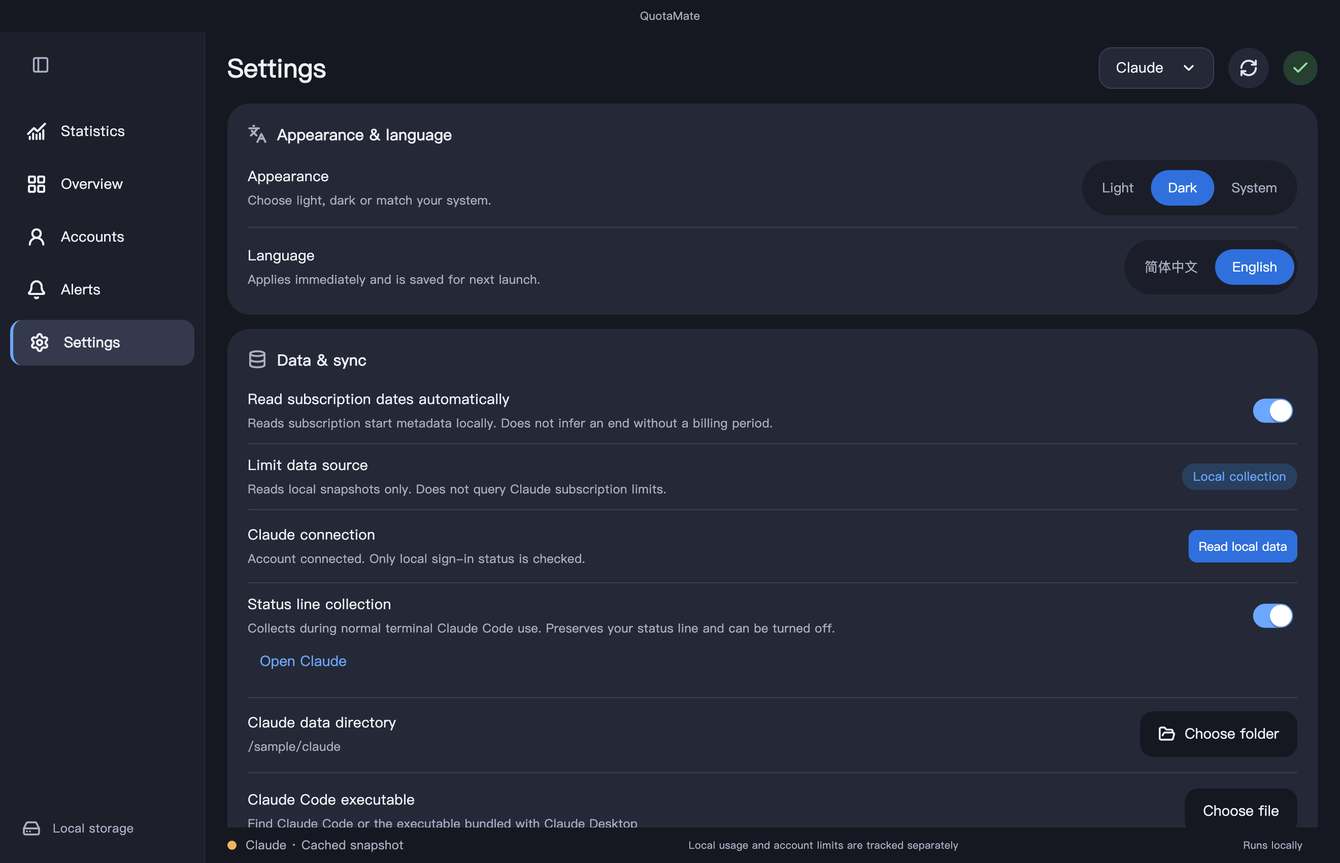
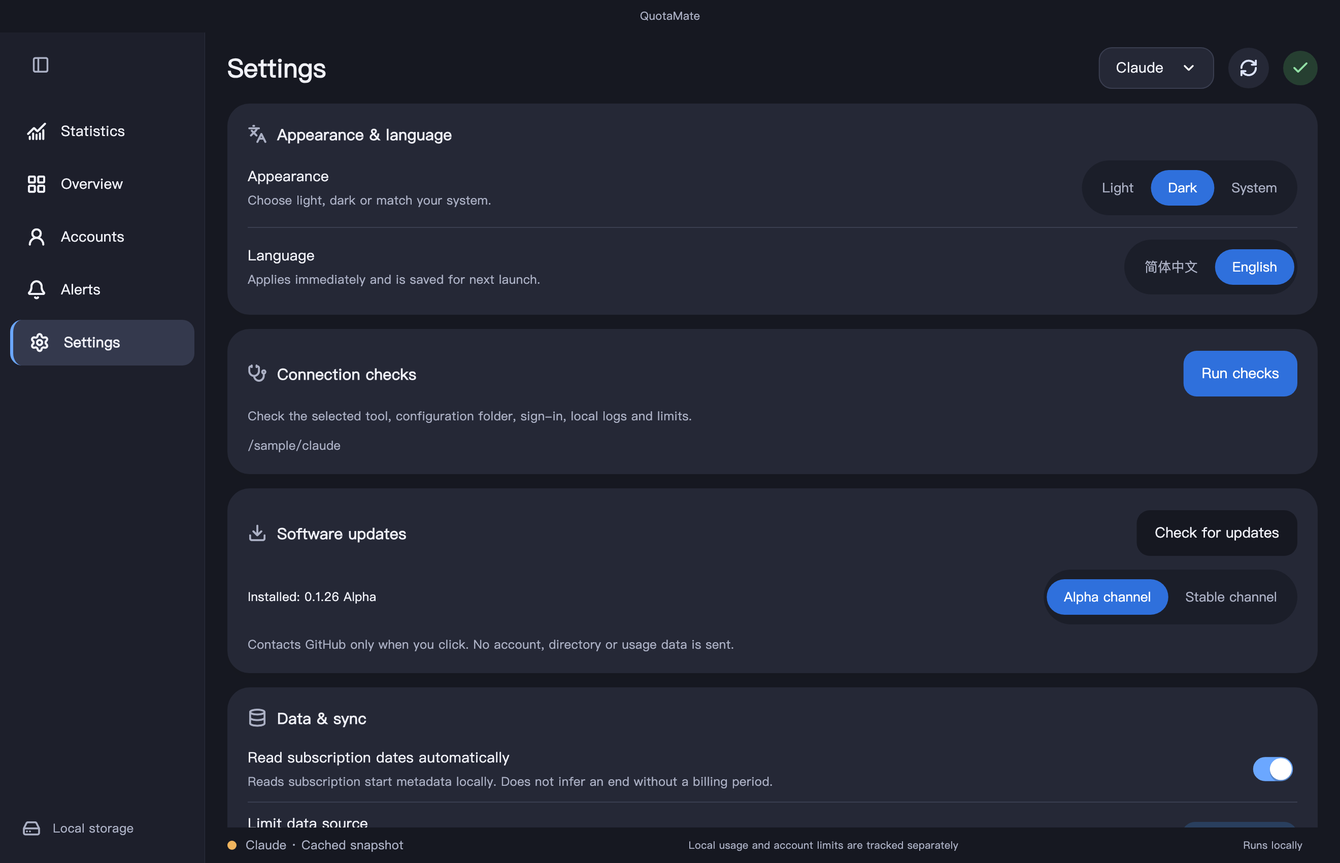
Fix Windows startup build and document the new maintenance features

diff --git a/lib/data/connection_diagnostics.dart b/lib/data/connection_diagnostics.dart
@@ -51,6 +51,7 @@ class ConnectionDiagnostics {
     SourceProfile profile, {
     String? configured,
     Future<String?> Function()? locate,
+    void Function(List<ConnectionCheck>)? onProgress,
     Future<AccountSnapshot> Function(String, String)? identity,
     Future<AccountSnapshot> Function(String, String)? quota,
     Future<ClaudeConnectionResult> Function(String, String)? claude,
@@ -62,7 +63,11 @@ class ConnectionDiagnostics {
       String detail,
       CheckState state, [
       CheckAction? action,
-    ]) => checks.add(ConnectionCheck(id, title, detail, state, action));
+    ]) {
+      checks.add(ConnectionCheck(id, title, detail, state, action));
+      onProgress?.call(List.unmodifiable(checks));
+    }
+
     final isClaude = profile.provider == AiProvider.claude;
     String? executable, email;
     try {

diff --git a/lib/controller.dart b/lib/controller.dart
@@ -762,6 +762,16 @@ class AppController extends ChangeNotifier {
       final result = await ConnectionDiagnostics.run(
         profile,
         configured: isClaude ? claudeExecutable : executable,
+        onProgress: (steps) {
+          if (!_disposed) {
+            connectionReport = ConnectionReport(
+              profile.scope,
+              DateTime.now(),
+              steps,
+            );
+            _notify();
+          }
+        },
       );
       if (!_disposed && result.scope == profile.scope) {
         connectionReport = result;

diff --git a/windows/runner/main.cpp b/windows/runner/main.cpp
@@ -25,10 +25,10 @@ int APIENTRY wWinMain(_In_ HINSTANCE instance, _In_opt_ HINSTANCE prev,
       GetCommandLineArguments();
 
   const bool background = std::find(command_line_arguments.begin(), command_line_arguments.end(), "--background") != command_line_arguments.end();
-  HANDLE instance = CreateMutexW(nullptr, TRUE, L"Local\\QuotaMateDesktop");
+  HANDLE application_mutex = CreateMutexW(nullptr, TRUE, L"Local\\QuotaMateDesktop");
   const DWORD instance_status = GetLastError();
-  std::unique_ptr<void, decltype(&CloseHandle)> instance_guard(instance, &CloseHandle);
-  if (instance && instance_status == ERROR_ALREADY_EXISTS) {
+  std::unique_ptr<void, decltype(&CloseHandle)> instance_guard(application_mutex, &CloseHandle);
+  if (application_mutex && instance_status == ERROR_ALREADY_EXISTS) {
     if (!background) {
       for (int attempt = 0; attempt < 50; ++attempt) {
         const HWND existing = FindWindowW(L"FLUTTER_RUNNER_WIN32_WINDOW", L"QuotaMate");

diff --git a/README.md b/README.md
@@ -6,14 +6,14 @@
 <p align="center">适用于 macOS / Windows 的 GPT、Codex 与 Claude Code 本机用量面板。</p>
 <p align="center">
   <a href="https://github.com/liuzilong200049-bot/QuotaMate/actions/workflows/ci.yml"><img src="https://github.com/liuzilong200049-bot/QuotaMate/actions/workflows/ci.yml/badge.svg" alt="CI"></a>
-  <img src="https://img.shields.io/badge/version-0.1.25%20Alpha-3b82f6?style=flat-square" alt="0.1.25 Alpha">
+  <img src="https://img.shields.io/badge/version-0.1.26%20Alpha-3b82f6?style=flat-square" alt="0.1.26 Alpha">
   <img src="https://img.shields.io/badge/macOS-12%2B-334155?style=flat-square" alt="macOS 12+">
   <img src="https://img.shields.io/badge/Windows-x64_Alpha-334155?style=flat-square" alt="Windows x64 Alpha">
   <a href="LICENSE"><img src="https://img.shields.io/badge/license-MIT-16a34a?style=flat-square" alt="MIT License"></a>
 </p>
 <p align="center">
-  <a href="https://github.com/liuzilong200049-bot/QuotaMate/releases/download/v0.1.25-alpha/QuotaMate-0.1.25-macos-universal.dmg"><img src="docs/assets/download-macos.svg" width="320" alt="直接下载 macOS 通用版 DMG"></a>
-  <a href="https://github.com/liuzilong200049-bot/QuotaMate/releases/download/v0.1.25-alpha/QuotaMate-0.1.25-windows-x64-setup.exe"><img src="docs/assets/download-windows.svg" width="320" alt="直接下载 Windows x64 安装程序"></a>
+  <a href="https://github.com/liuzilong200049-bot/QuotaMate/releases/download/v0.1.26-alpha/QuotaMate-0.1.26-macos-universal.dmg"><img src="docs/assets/download-macos.svg" width="320" alt="直接下载 macOS 通用版 DMG"></a>
+  <a href="https://github.com/liuzilong200049-bot/QuotaMate/releases/download/v0.1.26-alpha/QuotaMate-0.1.26-windows-x64-setup.exe"><img src="docs/assets/download-windows.svg" width="320" alt="直接下载 Windows x64 安装程序"></a>
 </p>
 <p align="center">
   <a href="#download">下载安装</a> · <a href="#first-run">第一次使用</a> · <a href="#connect-gpt">连接 GPT</a> · <a href="#connect-claude">连接 Claude</a> · <a href="#faq">常见问题</a> · <a href="README.en.md">English</a>
@@ -39,17 +39,17 @@
 
 ## 下载安装
 
-**当前版本：v0.1.25 Alpha · macOS 12+ 通用版 / Windows x64。** 原工具另有系统要求时，以其官方说明为准。
+**当前版本：v0.1.26 Alpha · macOS 12+ 通用版 / Windows x64。** 原工具另有系统要求时，以其官方说明为准。
 
 | 下载项 | 适合谁 | 链接 |
 | --- | --- | --- |
-| **Windows x64 安装程序** | Windows 用户，安装到当前用户目录 | **[直接下载 EXE](https://github.com/liuzilong200049-bot/QuotaMate/releases/download/v0.1.25-alpha/QuotaMate-0.1.25-windows-x64-setup.exe)** |
-| Windows x64 便携 ZIP | 全部解压后启动，无需安装 | [下载 Windows ZIP](https://github.com/liuzilong200049-bot/QuotaMate/releases/download/v0.1.25-alpha/QuotaMate-0.1.25-windows-x64.zip) |
-| Windows SHA256 | 校验 Windows 下载文件 | [下载校验文件](https://github.com/liuzilong200049-bot/QuotaMate/releases/download/v0.1.25-alpha/SHA256SUMS-windows) |
-| **DMG 安装包** | 大多数 Mac 用户，推荐 | **[点击直接下载 DMG](https://github.com/liuzilong200049-bot/QuotaMate/releases/download/v0.1.25-alpha/QuotaMate-0.1.25-macos-universal.dmg)** |
-| ZIP 压缩包 | 希望解压后手动放入应用程序 | [直接下载 ZIP](https://github.com/liuzilong200049-bot/QuotaMate/releases/download/v0.1.25-alpha/QuotaMate-0.1.25-macos-universal.zip) |
-| SHA256 校验文件 | 检查下载是否完整 | [下载校验文件](https://github.com/liuzilong200049-bot/QuotaMate/releases/download/v0.1.25-alpha/SHA256SUMS) |
-| 版本说明 | 查看更新内容与已知限制 | [打开 Release 页面](https://github.com/liuzilong200049-bot/QuotaMate/releases/tag/v0.1.25-alpha) |
+| **Windows x64 安装程序** | Windows 用户，安装到当前用户目录 | **[直接下载 EXE](https://github.com/liuzilong200049-bot/QuotaMate/releases/download/v0.1.26-alpha/QuotaMate-0.1.26-windows-x64-setup.exe)** |
+| Windows x64 便携 ZIP | 全部解压后启动，无需安装 | [下载 Windows ZIP](https://github.com/liuzilong200049-bot/QuotaMate/releases/download/v0.1.26-alpha/QuotaMate-0.1.26-windows-x64.zip) |
+| Windows SHA256 | 校验 Windows 下载文件 | [下载校验文件](https://github.com/liuzilong200049-bot/QuotaMate/releases/download/v0.1.26-alpha/SHA256SUMS-windows) |
+| **DMG 安装包** | 大多数 Mac 用户，推荐 | **[点击直接下载 DMG](https://github.com/liuzilong200049-bot/QuotaMate/releases/download/v0.1.26-alpha/QuotaMate-0.1.26-macos-universal.dmg)** |
+| ZIP 压缩包 | 希望解压后手动放入应用程序 | [直接下载 ZIP](https://github.com/liuzilong200049-bot/QuotaMate/releases/download/v0.1.26-alpha/QuotaMate-0.1.26-macos-universal.zip) |
+| SHA256 校验文件 | 检查下载是否完整 | [下载校验文件](https://github.com/liuzilong200049-bot/QuotaMate/releases/download/v0.1.26-alpha/SHA256SUMS) |
+| 版本说明 | 查看更新内容与已知限制 | [打开 Release 页面](https://github.com/liuzilong200049-bot/QuotaMate/releases/tag/v0.1.26-alpha) |
 
 **Windows：** 下载 EXE 按向导安装，或完整解压 ZIP 后运行 `quota_mate.exe`。[Windows 安装、连接、快捷键与排错 →](docs/windows.md)
 
@@ -66,6 +66,8 @@
 <a id="first-run"></a>
 
 ## 第一次使用
+
+**v0.1.26 新增：** [逐项连接诊断、手动检查更新](docs/connection-checks.md)，以及 Windows 可选关闭到托盘、登录启动和单实例唤回。默认不自动检查版本、不注册开机启动。
 
 **安装 QuotaMate 不需要 Flutter、Python 或 API Key。** 需要在本机已有对应的官方 Codex / Claude Code 工具；查看旧日志不要求当前登录。
 
@@ -101,9 +103,9 @@
 **Claude 的 Token 统计来自本机终端日志，额度来自已有快照。** 普通网页 / 桌面聊天没有逐请求 Token 明细；桌面 Code、Cowork 和远程会话尚未完整适配。[完整设置、限制与排查 →](docs/quick-start.md#connect-claude)
 
 <details>
-<summary><strong>展开查看 Claude 采集设置</strong></summary>
+<summary><strong>展开查看 Claude 设置与连接诊断</strong></summary>
 
-![Claude 设置：本地采集、账号连接与状态栏采集开关](screenshots/preview/settings-claude-dark-zh.png)
+![Claude 设置：外观、连接诊断与手动版本检查](screenshots/preview/settings-claude-dark-zh.png)
 
 示例路径为虚构目录。请在自己的软件中核对实际设置，不要把别人的目录或账号信息复制进去。
 
@@ -239,4 +241,4 @@ bash scripts/package_macos.sh
 
 视觉风格参考 [FlClash](https://github.com/chen08209/FlClash)，日志计时参考 [CC Switch](https://github.com/farion1231/cc-switch) 并保留 MIT 声明；未引入 FlClash 的界面源码或代理内核。QuotaMate 与 OpenAI、Anthropic、FlClash 无官方隶属或背书关系。
 
-<p align="center"><a href="https://github.com/liuzilong200049-bot/QuotaMate/releases/download/v0.1.25-alpha/QuotaMate-0.1.25-macos-universal.dmg"><strong>下载 QuotaMate for macOS →</strong></a></p>
+<p align="center"><a href="https://github.com/liuzilong200049-bot/QuotaMate/releases/download/v0.1.26-alpha/QuotaMate-0.1.26-macos-universal.dmg"><strong>下载 QuotaMate for macOS →</strong></a></p>

diff --git a/README.en.md b/README.en.md
@@ -4,11 +4,11 @@
 <p align="center">A macOS and Windows dashboard for GPT / Codex and Claude Code usage, cache, and reference costs.</p>
 <p align="center">
   <a href="https://github.com/liuzilong200049-bot/QuotaMate/actions/workflows/ci.yml"><img src="https://github.com/liuzilong200049-bot/QuotaMate/actions/workflows/ci.yml/badge.svg" alt="CI"></a>
-  <img src="https://img.shields.io/badge/version-0.1.25%20Alpha-3b82f6?style=flat-square" alt="0.1.25 Alpha">
+  <img src="https://img.shields.io/badge/version-0.1.26%20Alpha-3b82f6?style=flat-square" alt="0.1.26 Alpha">
   <img src="https://img.shields.io/badge/macOS-12%2B-334155?style=flat-square" alt="macOS 12+">
   <a href="LICENSE"><img src="https://img.shields.io/badge/license-MIT-16a34a?style=flat-square" alt="MIT License"></a>
 </p>
-<p align="center"><a href="https://github.com/liuzilong200049-bot/QuotaMate/releases/download/v0.1.25-alpha/QuotaMate-0.1.25-macos-universal.dmg"><img src="docs/assets/download-macos.svg" width="320" alt="Download the universal macOS DMG"></a> <a href="https://github.com/liuzilong200049-bot/QuotaMate/releases/download/v0.1.25-alpha/QuotaMate-0.1.25-windows-x64-setup.exe"><img src="docs/assets/download-windows.svg" width="320" alt="Download the Windows x64 installer"></a></p>
+<p align="center"><a href="https://github.com/liuzilong200049-bot/QuotaMate/releases/download/v0.1.26-alpha/QuotaMate-0.1.26-macos-universal.dmg"><img src="docs/assets/download-macos.svg" width="320" alt="Download the universal macOS DMG"></a> <a href="https://github.com/liuzilong200049-bot/QuotaMate/releases/download/v0.1.26-alpha/QuotaMate-0.1.26-windows-x64-setup.exe"><img src="docs/assets/download-windows.svg" width="320" alt="Download the Windows x64 installer"></a></p>
 <p align="center"><a href="#download">Download</a> · <a href="#first-run">First run</a> · <a href="#connect-gpt">GPT / Codex</a> · <a href="#connect-claude">Claude</a> · <a href="#faq">FAQ</a> · <a href="README.md">简体中文</a></p>
 
 ![Claude statistics with synthetic seven-day data](screenshots/preview/statistics-claude-dark-en.png)
@@ -28,17 +28,17 @@ All previews use production Flutter components with synthetic accounts, fictiona
 
 ## Download and install
 
-**v0.1.25 Alpha · macOS 12+ universal / Windows x64.** The original Codex / Claude tools may have higher system requirements.
+**v0.1.26 Alpha · macOS 12+ universal / Windows x64.** The original Codex / Claude tools may have higher system requirements.
 
 | Package | Use | Direct link |
 | --- | --- | --- |
-| **Windows x64 installer** | Install for the current user | **[Download EXE](https://github.com/liuzilong200049-bot/QuotaMate/releases/download/v0.1.25-alpha/QuotaMate-0.1.25-windows-x64-setup.exe)** |
-| Windows x64 portable ZIP | Extract the complete folder, then run quota_mate.exe | [Download ZIP](https://github.com/liuzilong200049-bot/QuotaMate/releases/download/v0.1.25-alpha/QuotaMate-0.1.25-windows-x64.zip) |
-| Windows SHA256 | Verify Windows downloads | [Checksums](https://github.com/liuzilong200049-bot/QuotaMate/releases/download/v0.1.25-alpha/SHA256SUMS-windows) |
-| **DMG** | Recommended for most users | **[Download DMG](https://github.com/liuzilong200049-bot/QuotaMate/releases/download/v0.1.25-alpha/QuotaMate-0.1.25-macos-universal.dmg)** |
-| ZIP | Extract and move the app manually | [Download ZIP](https://github.com/liuzilong200049-bot/QuotaMate/releases/download/v0.1.25-alpha/QuotaMate-0.1.25-macos-universal.zip) |
-| SHA256 checksums | Verify file consistency | [Download SHA256SUMS](https://github.com/liuzilong200049-bot/QuotaMate/releases/download/v0.1.25-alpha/SHA256SUMS) |
-| Release notes | Changes and limitations | [View release](https://github.com/liuzilong200049-bot/QuotaMate/releases/tag/v0.1.25-alpha) |
+| **Windows x64 installer** | Install for the current user | **[Download EXE](https://github.com/liuzilong200049-bot/QuotaMate/releases/download/v0.1.26-alpha/QuotaMate-0.1.26-windows-x64-setup.exe)** |
+| Windows x64 portable ZIP | Extract the complete folder, then run quota_mate.exe | [Download ZIP](https://github.com/liuzilong200049-bot/QuotaMate/releases/download/v0.1.26-alpha/QuotaMate-0.1.26-windows-x64.zip) |
+| Windows SHA256 | Verify Windows downloads | [Checksums](https://github.com/liuzilong200049-bot/QuotaMate/releases/download/v0.1.26-alpha/SHA256SUMS-windows) |
+| **DMG** | Recommended for most users | **[Download DMG](https://github.com/liuzilong200049-bot/QuotaMate/releases/download/v0.1.26-alpha/QuotaMate-0.1.26-macos-universal.dmg)** |
+| ZIP | Extract and move the app manually | [Download ZIP](https://github.com/liuzilong200049-bot/QuotaMate/releases/download/v0.1.26-alpha/QuotaMate-0.1.26-macos-universal.zip) |
+| SHA256 checksums | Verify file consistency | [Download SHA256SUMS](https://github.com/liuzilong200049-bot/QuotaMate/releases/download/v0.1.26-alpha/SHA256SUMS) |
+| Release notes | Changes and limitations | [View release](https://github.com/liuzilong200049-bot/QuotaMate/releases/tag/v0.1.26-alpha) |
 
 **Windows:** use the installer, or extract the complete ZIP and run `quota_mate.exe`. Native Windows clients are the first target; WSL is separate. [Windows guide](docs/windows.md).
 
@@ -57,6 +57,8 @@ No Flutter, Python, or API key is needed to install QuotaMate. Install the origi
 <a id="first-run"></a>
 
 ## First run
+
+**New in v0.1.26:** step-by-step connection checks, manual Alpha/stable release discovery, and optional Windows tray/startup behavior with single-instance activation. Update checks and startup registration require an explicit action. [Connection and update guide](docs/connection-checks.md).
 
 | Step | Action | Result |
 | --- | --- | --- |

diff --git a/docs/connection-checks.md b/docs/connection-checks.md
@@ -1,0 +1,45 @@
+# 连接诊断与软件更新
+
+[返回首页](../README.md) · [Windows 使用指南](windows.md)
+
+## 连接诊断
+
+进入 **设置 → 连接诊断 → 开始检测**。检测只检查当前选择的数据源与配置目录，不切换原工具账号，不创建模型会话，也不主动请求 Claude 订阅额度。
+
+| 检查项 | 检查内容 | 发现问题后 |
+| --- | --- | --- |
+| 客户端工具 | 是否找到可执行文件；指定路径失效时说明实际使用的自动发现路径 | 点击「指定路径」选择已安装的官方工具 |
+| 配置目录 | 目录是否存在、日志目录是否可读取 | 选择当前客户端使用的配置根目录 |
+| 所选工具账号 | 使用官方工具核对所选配置目录的登录 | Claude 可进入官方登录；Codex 可打开登录指引 |
+| 本机用量记录 | 是否发现支持的目录下的 JSONL 日志文件 | 正常使用原客户端后重新检测，并检查统计周期 |
+| 额度数据 | GPT 官方返回的额度窗口；Claude 身份匹配且仍可展示的本地快照 | 重试或按提示启用采集 |
+| 状态栏采集（Claude） | 是否配置额度转发器 | 打开采集设置，主动确认启用，再新开终端会话 |
+
+「已发现日志」只表示存在日志文件，不表示每个版本、格式和请求都已完整解析。登录有效但额度失败时，会分别呈现结果，便于区分网络 / 接口问题与登录问题。
+
+检测结果保留原检测时间，不会被当作业务层的实时额度或重置权限。执行诊断会使旧账号验证状态失效；之后刷新账号额度，才能重新确认敏感操作资格。账号切换或刷新后，旧诊断结果会清除。
+
+页面可在本机显示工具路径、所选目录和邮箱，帮助核对账号是否选对；**复制脱敏诊断**只包含步骤标识、结果状态和时间，不包含这些路径、邮箱或原工具输出。不要将含个人信息的整页截图公开提交到 Issue。
+
+## 手动检查更新
+
+进入 **设置 → 软件更新 → 检查更新**：
+
+- **Alpha 渠道**：接受更高版本的 Alpha / 其他预发布及正式版。
+- **稳定渠道**：只查找更高的正式版本；切换渠道不会降级安装，也不会自动改装已有版本。
+- 可查看版本说明，并打开当前系统对应的官方仓库下载链接。该版本尚未上传当前平台的安装包时，显示「查看版本」。
+- 当前只提供检查与浏览器下载入口，不在后台下载、替换或运行安装包。
+
+版本检查仅由用户点击触发，访问 GitHub 的公开 Releases API，不发送登录凭证、账号、配置路径、会话或用量。GitHub 仍可看到正常请求所需的网络地址和 QuotaMate 版本 User-Agent。更新说明按纯文本显示；安装链接只接受本仓库、对应版本和平台的 HTTPS 地址。响应大小和等待时间受限，限流或失败会提示稍后重试。
+
+当前版本为 Alpha，因此不能只调用排除预发布版本的 GitHub「最新正式版」接口。[GitHub 官方 Releases API](https://docs.github.com/en/rest/releases/releases#list-releases)
+
+## 后续顺序
+
+此版本优先完成连接排障、Windows 常驻和版本检查。下一阶段计划：
+
+1. 收集 Windows 真实账号、不同安装布局及缩放比例的反馈；不把 CI 虚拟环境当作全部真机兼容性结论。
+2. 完善额度消耗趋势、分级提醒和恢复提醒；预测只采用可靠额度快照，样本不足时保持未知。
+3. 让默认模型参考价格可以独立更新，保留手动覆盖与删除选择。
+4. 对大量日志建立扫描 / 查询基准，再按实际瓶颈优化，并完善备份与迁移恢复。
+5. 准备发行签名：macOS Developer ID / 公证、Windows 发布者签名。证书与发行账号由维护者提供，不将签名凭证放入公开仓库。

diff --git a/docs/windows.md b/docs/windows.md
@@ -1,12 +1,12 @@
 # Windows 使用与构建指南
 
-[返回首页](../README.md) · [Windows 安装程序](https://github.com/liuzilong200049-bot/QuotaMate/releases/download/v0.1.25-alpha/QuotaMate-0.1.25-windows-x64-setup.exe) · [便携 ZIP](https://github.com/liuzilong200049-bot/QuotaMate/releases/download/v0.1.25-alpha/QuotaMate-0.1.25-windows-x64.zip)
+[返回首页](../README.md) · [Windows 安装程序](https://github.com/liuzilong200049-bot/QuotaMate/releases/download/v0.1.26-alpha/QuotaMate-0.1.26-windows-x64-setup.exe) · [便携 ZIP](https://github.com/liuzilong200049-bot/QuotaMate/releases/download/v0.1.26-alpha/QuotaMate-0.1.26-windows-x64.zip)
 
 ## 安装与首次使用
 
 首版为 **Windows x64 Alpha**。推荐 Windows 11；最低目标为 Windows 10 1809，原客户端的系统要求另行适用。目前不提供原生 ARM64 或 32 位安装包。
 
-1. 下载 `QuotaMate-0.1.25-windows-x64-setup.exe` 并运行。安装到当前用户目录，不请求管理员权限。
+1. 下载 `QuotaMate-0.1.26-windows-x64-setup.exe` 并运行。安装到当前用户目录，不请求管理员权限。
 2. 从开始菜单打开 **QuotaMate**。首次启动默认进入统计，显示今日数据；语言、主题和模型参考价格都已内置。
 3. 在右上角选择 **GPT** 或 **Claude**，按下面步骤核对本机连接。
 4. 用原客户端正常工作后回到 QuotaMate 刷新。仅登录账号不会生成 Token 历史。
@@ -47,10 +47,20 @@
 | 页面快捷键 | Ctrl+1 统计、Ctrl+2 总览、Ctrl+3 账号、Ctrl+, 设置 |
 | 操作快捷键 | Ctrl+R 刷新、Ctrl+E 导出 |
 | 系统托盘 | 点击打开窗口；右键可刷新或退出；剩余额度在图标提示中显示 |
-| 关闭窗口 | 退出应用；最小化可继续后台刷新 |
+| 关闭窗口 | 默认退出；可在设置开启「关闭窗口后继续运行」，托盘菜单提供彻底退出 |
+| 登录启动 | 默认不登记；在设置主动开启后以托盘方式启动，Windows 启动应用设置仍可禁用 |
+| 再次打开 | 唤回已有实例，避免重复扫描与提醒 |
 | 提醒 | Windows 托盘通知；系统通知设置、勿扰模式可能抑制提示 |
 
 中文用户目录和含空格的安装路径属于自动测试覆盖范围。本机应用数据及采集目录限制为当前用户 / SYSTEM 访问；CSV 导出包含用量信息，请按个人数据保护。模型参考价格与 macOS 同源，用户自定义价格不会被覆盖。
+
+## 常驻与登录启动
+
+在 **设置 → Windows 运行方式** 中可分别开启关闭到托盘和登录启动。两项默认关闭。关闭到托盘需要系统托盘可用；托盘不可用时，关闭仍退出，后台启动也会显示窗口，避免出现无法访问的隐藏进程。
+
+登录启动只登记当前用户的 `Run` 启动项，命令为已运行的本机 EXE 加 `--background`，不要求管理员权限，也不覆盖 Windows 的启动应用禁用策略。程序目录搬迁后，应在新位置重新开启；便携包同样适用。卸载仅删除指向该次安装目录的 QuotaMate 启动项，保留指向其他位置的登记和个人数据库。
+
+设置中还提供 [连接诊断与手动检查更新](connection-checks.md)。
 
 ## WSL 与已知范围
 
@@ -92,7 +102,7 @@ CI 不读取真实账号，使用合成 CLI 与隔离数据目录。安装包启
 ## 校验与排错
 
 ```powershell
-Get-FileHash .\QuotaMate-0.1.25-windows-x64-setup.exe -Algorithm SHA256
+Get-FileHash .\QuotaMate-0.1.26-windows-x64-setup.exe -Algorithm SHA256
 ```
 
 与同一个 Release 中的 `SHA256SUMS-windows` 比较。缺数据先检查时间范围、数据目录和 Windows / WSL 环境；缺额度先检查官方工具的当前登录和状态栏快照。

diff --git a/docs/quick-start.md b/docs/quick-start.md
@@ -2,7 +2,7 @@
 
 **Windows 用户请先看 [Windows 使用指南](windows.md)。以下安装步骤适用于 macOS。**
 
-[返回项目首页](../README.md) · [直接下载 macOS DMG](https://github.com/liuzilong200049-bot/QuotaMate/releases/download/v0.1.25-alpha/QuotaMate-0.1.25-macos-universal.dmg) · [版本说明](https://github.com/liuzilong200049-bot/QuotaMate/releases/tag/v0.1.25-alpha)
+[返回项目首页](../README.md) · [直接下载 macOS DMG](https://github.com/liuzilong200049-bot/QuotaMate/releases/download/v0.1.26-alpha/QuotaMate-0.1.26-macos-universal.dmg) · [版本说明](https://github.com/liuzilong200049-bot/QuotaMate/releases/tag/v0.1.26-alpha)
 
 这份指南面向第一次安装的用户。QuotaMate 用于整理支持的本机 AI 用量，不提供模型对话，也不会因登录就同步所有云端聊天历史。
 
@@ -21,10 +21,10 @@
 
 ## 下载与安装
 
-1. 点击 **[直接下载 DMG](https://github.com/liuzilong200049-bot/QuotaMate/releases/download/v0.1.25-alpha/QuotaMate-0.1.25-macos-universal.dmg)**，保存到下载文件夹。
+1. 点击 **[直接下载 DMG](https://github.com/liuzilong200049-bot/QuotaMate/releases/download/v0.1.26-alpha/QuotaMate-0.1.26-macos-universal.dmg)**，保存到下载文件夹。
 2. 双击打开 DMG，将 **QuotaMate** 拖到 **Applications / 应用程序**。
 3. 从「应用程序」启动；若已安装旧版，先退出旧版再替换。
-4. 不想使用 DMG 时，可 [下载 ZIP](https://github.com/liuzilong200049-bot/QuotaMate/releases/download/v0.1.25-alpha/QuotaMate-0.1.25-macos-universal.zip)，解压后把 `QuotaMate.app` 放到「应用程序」。
+4. 不想使用 DMG 时，可 [下载 ZIP](https://github.com/liuzilong200049-bot/QuotaMate/releases/download/v0.1.26-alpha/QuotaMate-0.1.26-macos-universal.zip)，解压后把 `QuotaMate.app` 放到「应用程序」。
 
 安装包是 Alpha 开发测试包，仅有 ad-hoc 本地签名，未使用 Apple Developer ID 签名或公证。是否运行由你自行决定。
 
@@ -38,10 +38,10 @@
 
 ### 可选：检查下载是否完整
 
-将 [SHA256SUMS](https://github.com/liuzilong200049-bot/QuotaMate/releases/download/v0.1.25-alpha/SHA256SUMS) 与下载文件放在同一目录。在终端进入该目录后执行：
+将 [SHA256SUMS](https://github.com/liuzilong200049-bot/QuotaMate/releases/download/v0.1.26-alpha/SHA256SUMS) 与下载文件放在同一目录。在终端进入该目录后执行：
 
 ```sh
-shasum -a 256 QuotaMate-0.1.25-macos-universal.dmg
+shasum -a 256 QuotaMate-0.1.26-macos-universal.dmg
 ```
 
 将输出与 `SHA256SUMS` 中同名文件的值比较。若同时下载了 DMG 和 ZIP，也可执行 `shasum -a 256 -c SHA256SUMS` 一次检查两者；只下载一个时，完整清单会提示另一个文件缺失。校验值仅用于检查文件一致性，不等于 Apple 公证或安全认证。
@@ -157,6 +157,8 @@ QuotaMate 不要求你提供订阅令牌、Cookie 或授权码，也不会保存
 - **快捷键：** ⌘1 统计，⌘2 总览，⌘3 账号，⌘R 刷新，⌘E 导出，⌘, 设置。
 
 ## 更新与卸载
+
+可先在 **设置 → 软件更新** 手动查看新版本、更新说明与下载入口。连接遇到问题时使用 **设置 → 连接诊断**，按失败步骤处理。[详细说明](connection-checks.md)
 
 更新时先退出 QuotaMate，再用新包替换「应用程序」中的旧应用。本机数据默认位于 `~/Library/Application Support/QuotaMate/usage.sqlite3`，更新不需要手工复制数据库。
 

diff --git a/CHANGELOG.md b/CHANGELOG.md
@@ -1,5 +1,14 @@
 # Changelog
 
+## 0.1.26 · 连接诊断与常驻体验
+
+- 设置新增逐项连接诊断，区分工具、目录、登录、日志、额度与 Claude 采集；敏感信息仅在本机显示，复制摘要保持脱敏。
+- 配置目录选择支持有官方配置但尚无会话日志的情况。
+- 新增主动触发的 Alpha / 稳定渠道版本检查、纯文本更新说明及本仓库的平台下载入口，不自动检查或执行安装包。
+- Windows 新增可选关闭到托盘、当前用户登录启动、单实例唤回；无托盘时保留可见 / 退出后备行为，卸载按路径清理自身启动项。
+- 扩展 Windows CI 验证注册项、关闭 / 唤回 / 退出、后台启动和安装卸载；主分支启用 PR 与双平台必需检查保护。
+
+
 ## 0.1.25 · Windows Alpha
 
 - 新增 Windows x64 原生窗口、文件夹 / 可执行文件选择、CSV 导出、托盘和系统通知。
